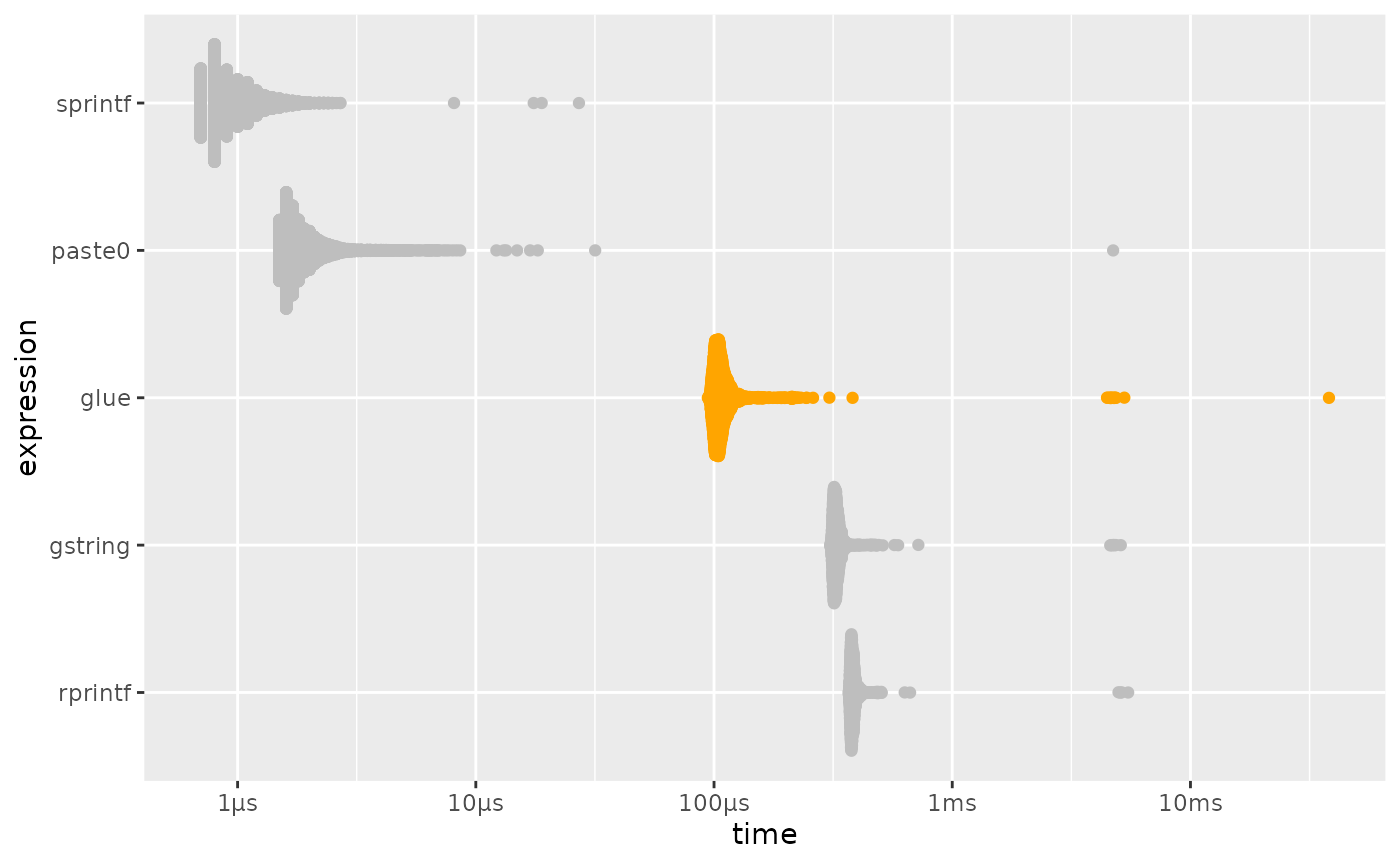
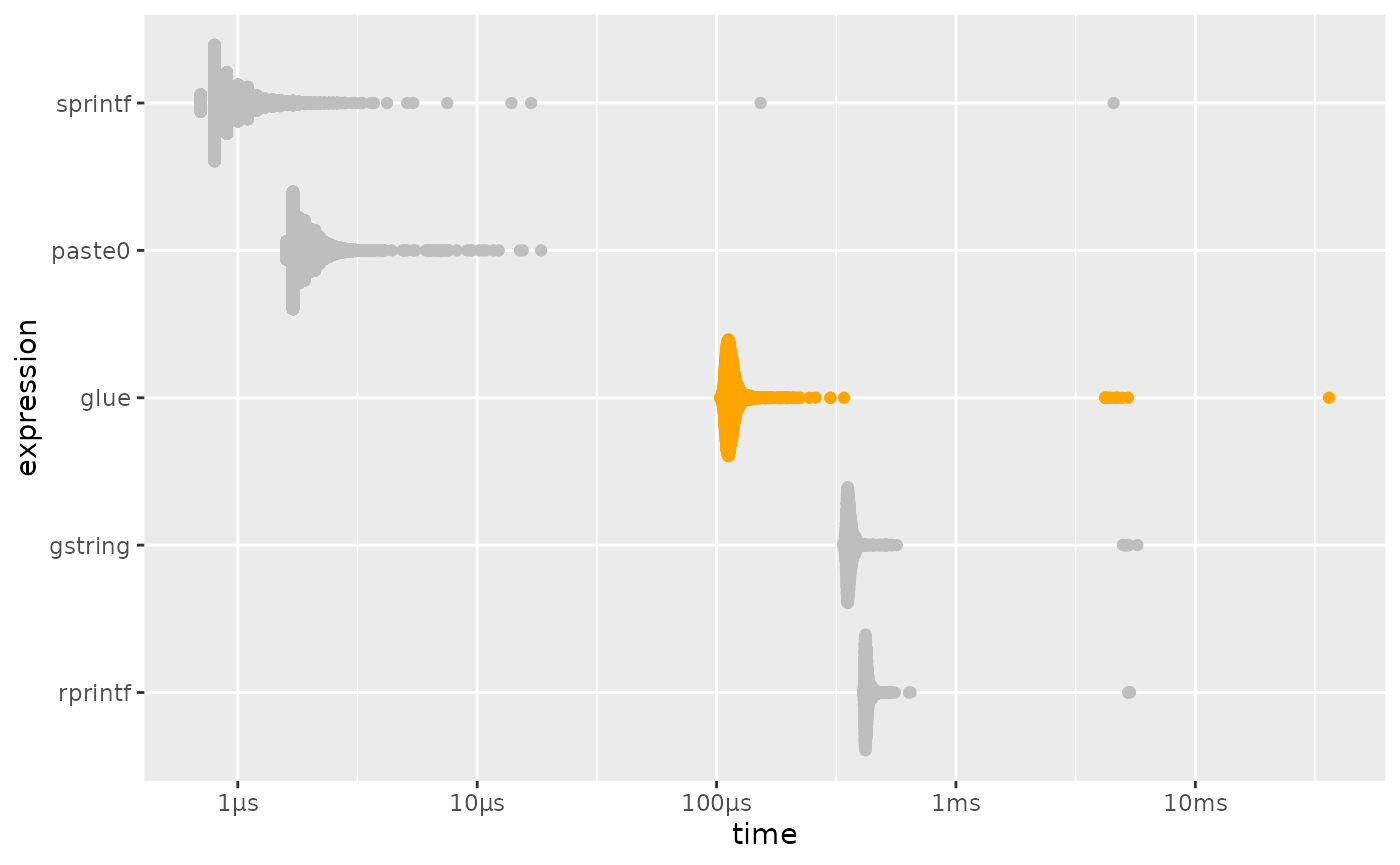
Deploying to gh-pages from @ tidyverse/glue@43e366e91d3b713c1a82fb6e3f69ade0cb121d73 🚀

diff --git a/dev/articles/speed.html b/dev/articles/speed.html
@@ -166,11 +166,11 @@ this benchmark, but is now formally marked as “superseded”, in favor of
 <span><span class="co">#&gt; <span style="color: #949494;"># A tibble: 5 × 6</span></span></span>
 <span><span class="co">#&gt;   expression      min   median `itr/sec` mem_alloc `gc/sec`</span></span>
 <span><span class="co">#&gt;   <span style="color: #949494; font-style: italic;">&lt;bch:expr&gt;</span> <span style="color: #949494; font-style: italic;">&lt;bch:tm&gt;</span> <span style="color: #949494; font-style: italic;">&lt;bch:tm&gt;</span>     <span style="color: #949494; font-style: italic;">&lt;dbl&gt;</span> <span style="color: #949494; font-style: italic;">&lt;bch:byt&gt;</span>    <span style="color: #949494; font-style: italic;">&lt;dbl&gt;</span></span></span>
-<span><span class="co">#&gt; <span style="color: #BCBCBC;">1</span> sprintf       700ns  900.1ns  1<span style="text-decoration: underline;">026</span>642.        0B     0   </span></span>
-<span><span class="co">#&gt; <span style="color: #BCBCBC;">2</span> paste0        1.5µs    1.7µs   <span style="text-decoration: underline;">524</span>971.        0B    52.5 </span></span>
-<span><span class="co">#&gt; <span style="color: #BCBCBC;">3</span> glue         94.2µs  105.2µs     <span style="text-decoration: underline;">9</span>211.  129.18KB    29.3 </span></span>
-<span><span class="co">#&gt; <span style="color: #BCBCBC;">4</span> gstring     307.7µs  324.7µs     <span style="text-decoration: underline;">3</span>034.    2.44MB    15.0 </span></span>
-<span><span class="co">#&gt; <span style="color: #BCBCBC;">5</span> rprintf     367.4µs  381.3µs     <span style="text-decoration: underline;">2</span>592.   78.16KB     8.35</span></span>
+<span><span class="co">#&gt; <span style="color: #BCBCBC;">1</span> sprintf     699.9ns    900ns   <span style="text-decoration: underline;">991</span>457.        0B    99.2 </span></span>
+<span><span class="co">#&gt; <span style="color: #BCBCBC;">2</span> paste0        1.6µs    1.9µs   <span style="text-decoration: underline;">503</span>826.        0B     0   </span></span>
+<span><span class="co">#&gt; <span style="color: #BCBCBC;">3</span> glue        103.4µs  113.7µs     <span style="text-decoration: underline;">8</span>576.  129.18KB    29.0 </span></span>
+<span><span class="co">#&gt; <span style="color: #BCBCBC;">4</span> gstring       338µs    357µs     <span style="text-decoration: underline;">2</span>758.    2.44MB    15.1 </span></span>
+<span><span class="co">#&gt; <span style="color: #BCBCBC;">5</span> rprintf     409.2µs  421.8µs     <span style="text-decoration: underline;">2</span>345.   78.16KB     8.35</span></span>
 <span></span>
 <span><span class="co"># plotting function defined in a hidden chunk</span></span>
 <span><span class="fu">plot_comparison</span><span class="op">(</span><span class="va">simple</span><span class="op">)</span></span></code></pre></div>
@@ -213,11 +213,11 @@ performance is much closer to that of <code><a href="https://rdrr.io/r/base/past
 <span><span class="co">#&gt; <span style="color: #949494;"># A tibble: 5 × 6</span></span></span>
 <span><span class="co">#&gt;   expression      min   median `itr/sec` mem_alloc `gc/sec`</span></span>
 <span><span class="co">#&gt;   <span style="color: #949494; font-style: italic;">&lt;bch:expr&gt;</span> <span style="color: #949494; font-style: italic;">&lt;bch:tm&gt;</span> <span style="color: #949494; font-style: italic;">&lt;bch:tm&gt;</span>     <span style="color: #949494; font-style: italic;">&lt;dbl&gt;</span> <span style="color: #949494; font-style: italic;">&lt;bch:byt&gt;</span>    <span style="color: #949494; font-style: italic;">&lt;dbl&gt;</span></span></span>
-<span><span class="co">#&gt; <span style="color: #BCBCBC;">1</span> sprintf      11.7ms   11.8ms      84.1   781.3KB     4.20</span></span>
-<span><span class="co">#&gt; <span style="color: #BCBCBC;">2</span> paste0       13.5ms   13.7ms      72.4   781.3KB     2.07</span></span>
-<span><span class="co">#&gt; <span style="color: #BCBCBC;">3</span> gstring      17.3ms   17.6ms      56.9    1.53MB     4.37</span></span>
-<span><span class="co">#&gt; <span style="color: #BCBCBC;">4</span> glue         17.3ms   17.6ms      56.6    2.29MB     4.35</span></span>
-<span><span class="co">#&gt; <span style="color: #BCBCBC;">5</span> rprintf      37.1ms   37.3ms      26.8    3.05MB     2.06</span></span>
+<span><span class="co">#&gt; <span style="color: #BCBCBC;">1</span> sprintf      13.3ms   13.6ms      73.8   781.3KB     2.05</span></span>
+<span><span class="co">#&gt; <span style="color: #BCBCBC;">2</span> paste0       15.3ms   15.6ms      64.0   781.3KB     2.06</span></span>
+<span><span class="co">#&gt; <span style="color: #BCBCBC;">3</span> gstring      19.4ms   19.7ms      50.7    1.53MB     4.41</span></span>
+<span><span class="co">#&gt; <span style="color: #BCBCBC;">4</span> glue         19.6ms   19.7ms      50.2    2.29MB     4.37</span></span>
+<span><span class="co">#&gt; <span style="color: #BCBCBC;">5</span> rprintf      41.9ms   43.2ms      23.3    3.05MB     4.66</span></span>
 <span></span>
 <span><span class="co"># plotting function defined in a hidden chunk</span></span>
 <span><span class="fu">plot_comparison</span><span class="op">(</span><span class="va">vectorized</span><span class="op">)</span></span></code></pre></div>

diff --git a/dev/news/index.html b/dev/news/index.html
@@ -66,7 +66,8 @@
 
     <div class="section level2">
 <h2 class="pkg-version" data-toc-text="development version" id="glue-development-version">glue (development version)<a class="anchor" aria-label="anchor" href="#glue-development-version"></a></h2>
-<ul><li><p><code><a href="../reference/glue_sql.html">glue_sql()</a></code> now uses <code><a href="https://dbi.r-dbi.org/reference/dbQuoteLiteral.html" class="external-link">DBI::dbQuoteLiteral()</a></code> for all object types. This should increase fidelity of escaping for different object types (<a href="https://github.com/tidyverse/glue/issues/279" class="external-link">#279</a>).</p></li>
+<ul><li><p><code><a href="../reference/glue_sql.html">glue_sql()</a></code> now collapses an empty vector to <code>""</code> not <code>"NULL"</code> (<a href="https://github.com/tidyverse/glue/issues/272" class="external-link">#272</a>).</p></li>
+<li><p><code><a href="../reference/glue_sql.html">glue_sql()</a></code> now uses <code><a href="https://dbi.r-dbi.org/reference/dbQuoteLiteral.html" class="external-link">DBI::dbQuoteLiteral()</a></code> for all object types. This should increase fidelity of escaping for different object types (<a href="https://github.com/tidyverse/glue/issues/279" class="external-link">#279</a>).</p></li>
 <li><p>The “Speed of glue” vignette has been converted to an article, which allows several package to be removed from <code>Suggests</code> (and re-located to <code>Config/Needs/website</code>). The code got a light refresh, including a switch from microbenchmark to bench and more modern use of ggplot2.</p></li>
 <li><p>Add <code>$(C_VISIBILITY)</code> to compiler flags to hide internal symbols from the dll (<a href="https://github.com/tidyverse/glue/issues/284" class="external-link">#284</a> <a href="https://github.com/lionel-" class="external-link">@lionel-</a>).</p></li>
 </ul></div>
